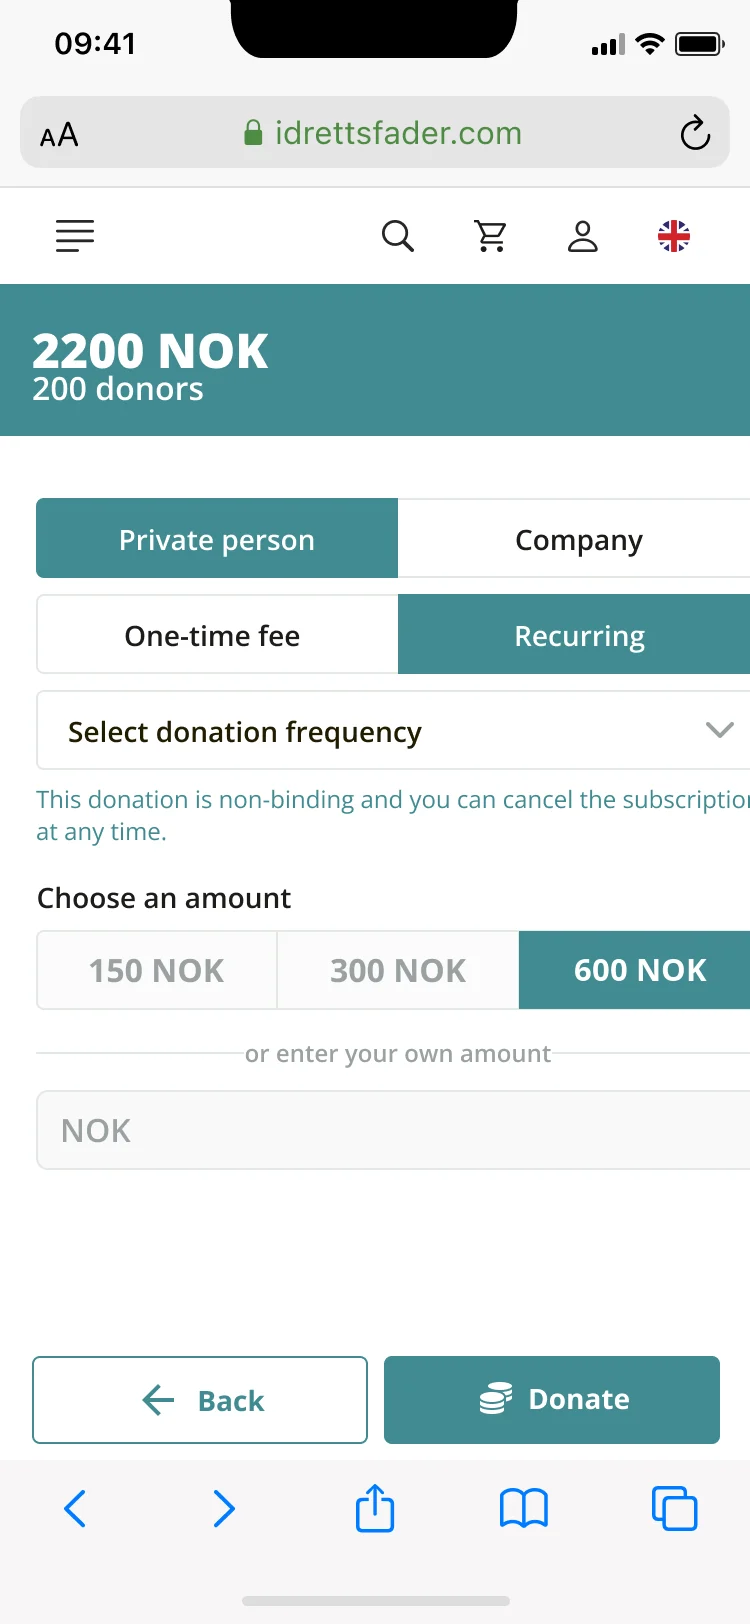
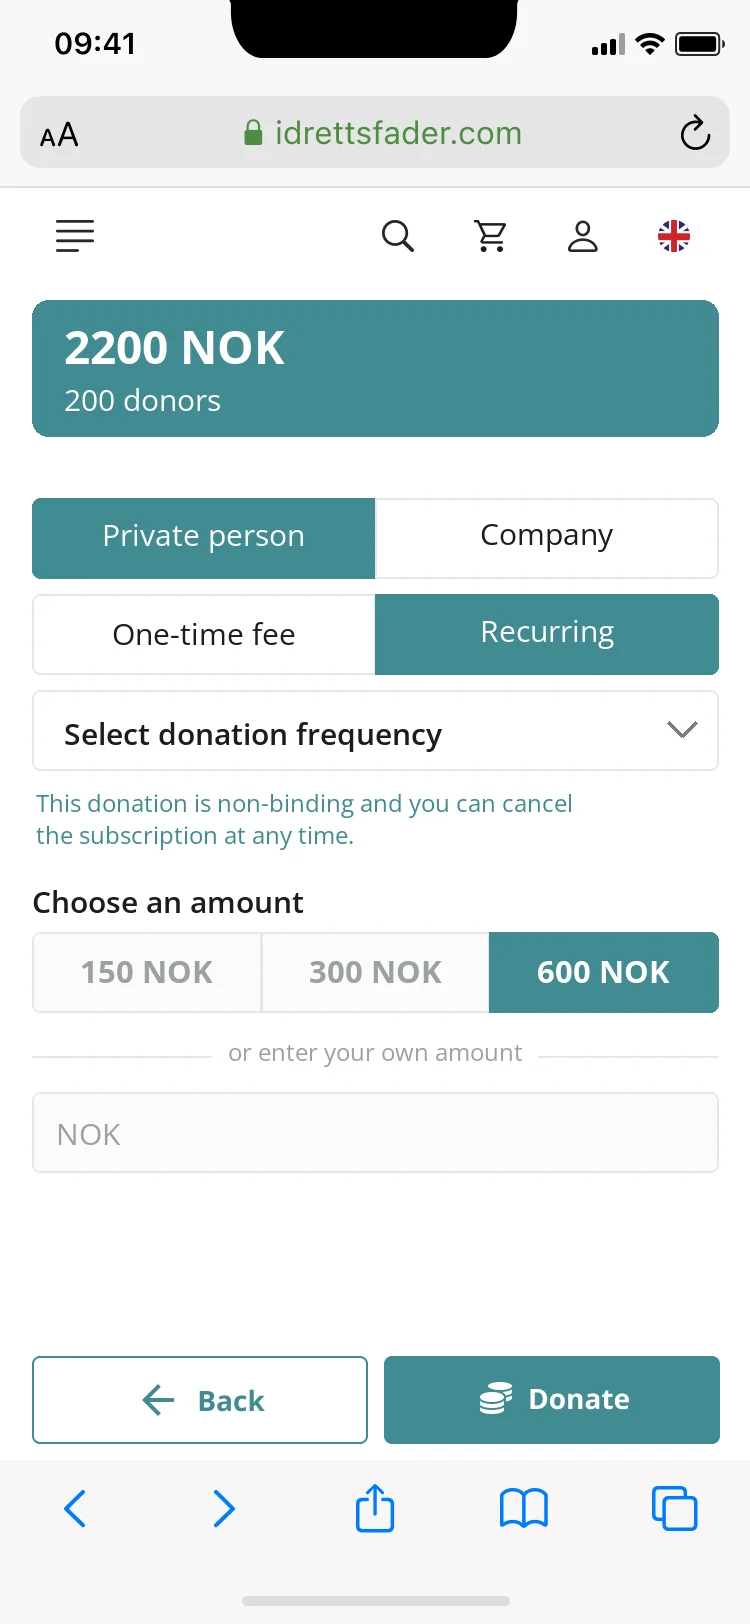
Sport Guardian: mobile donation form redrawn with 16 pt margins, phone panel no longer crops the phone, mosaic swaps the clubs tile for two mobile payment screens

diff --git a/SportGuardian.html b/SportGuardian.html
@@ -104,7 +104,8 @@ h1{font-size:clamp(34px,5.2vw,76px);line-height:1.03;letter-spacing:-.045em;max-
 .gal{padding-bottom:clamp(72px,10vw,140px)}
 .gal .g{margin-top:clamp(32px,4vw,56px)}
 .first{padding-bottom:clamp(56px,8vw,112px)}
-.c1-4.pfw .panel{height:100%}
+.pfw .panel{aspect-ratio:auto;height:auto}
+.pfw .phone{width:min(100%,300px)}
 /* the hoodie, full width of the grid, between the product and the brand */
 .divider{padding-bottom:clamp(72px,10vw,140px)}
 .divider .ph{aspect-ratio:16/8}
@@ -167,7 +168,7 @@ h1{font-size:clamp(34px,5.2vw,76px);line-height:1.03;letter-spacing:-.045em;max-
 @keyframes slide{to{transform:translateX(-50%)}}
 .tile{height:clamp(130px,17vw,250px);border-radius:6px;overflow:hidden;background:#fff;flex:none}
 .tile img{height:100%;width:100%;object-fit:cover;object-position:top}
-.tile.w{aspect-ratio:16/10}.tile.p{aspect-ratio:2/3}.tile.s{aspect-ratio:4/5}.tile.q{aspect-ratio:1}
+.tile.w{aspect-ratio:16/10}.tile.mb{aspect-ratio:375/812}.tile.p{aspect-ratio:2/3}.tile.s{aspect-ratio:4/5}.tile.q{aspect-ratio:1}
 .tile.k{background:var(--deep);display:flex;align-items:center;justify-content:center}
 .tile.k img{width:78%;height:auto;object-fit:contain}
 .tile.pl{background:var(--well);display:flex;align-items:center;justify-content:center}
@@ -222,7 +223,7 @@ footer .wrap{display:flex;justify-content:space-between;gap:16px;flex-wrap:wrap}
     <div class="ticker" aria-hidden="true"><span>Sport Guardian · Product and brand ·</span><span>Sport Guardian · Product and brand ·</span></div>
     <button class="pause" type="button" aria-pressed="false" data-for="mosaic"><svg class="pa" aria-hidden="true"><use href="#i-pause"/></svg><svg class="pl" aria-hidden="true"><use href="#i-play"/></svg><span>Pause<span class="vh"> the moving title and mosaic</span></span></button>
     <div class="rows" role="img" aria-label="A moving mosaic of Sport Guardian screens and brand pieces: the campaign page, the shop, the club's campaigns, crowdfunding, the admin panel and statistics, the payment cards, the image picker, with the hoodie, cap, skateboards, bottle and poster.">
-      <div class="track" style="--s:80s" data-tiles="screen-campaign:w|hoodie-768:w|screen-shop:w|poster-640:p|screen-admin-business:w|cap-768:w|screen-image-picker:w"></div>
+      <div class="track" style="--s:80s" data-tiles="screen-campaign:w|hoodie-768:w|screen-shop:w|poster-640:p|m-step-3:mb|m-step-4:mb|cap-768:w|screen-image-picker:w"></div>
       <div class="track rev" style="--s:110s" data-tiles="decks-768:w|screen-club-campaigns:w|bottle-640:p|screen-statistik:w|card-congrats:pl|sport-guardian-mark-800:w|screen-congrats-instagram:w|screen-crowdfunding:w|el-donors:pl|screen-admin-campaigns:w|card-payment-method:pl"></div>
     </div>
   </section></div>
@@ -333,7 +334,7 @@ footer .wrap{display:flex;justify-content:space-between;gap:16px;flex-wrap:wrap}
   if(!vp||matchMedia('(prefers-reduced-motion:reduce)').matches)return;
   var st=vp.querySelectorAll('.st'),body=vp.querySelector('.body'),ptr=vp.querySelector('.ptr'),box=vp.closest('.pfw');
   var steps=[[900,'scroll',-12],[2600,'scroll',-26],[3000,'scroll',0],[2400,'go',73.6,86.2],[1000,'tap'],[260,'show',0],
-             [1300,'go',85.3,59.7],[1000,'tap'],[220,'show',1],[900,'go',73.6,86.2],[1000,'tap'],[260,'show',2],
+             [1300,'go',80.5,59.9],[1000,'tap'],[220,'show',1],[900,'go',73.6,86.2],[1000,'tap'],[260,'show',2],
              [1600,'go',50,77.5],[1000,'tap'],[260,'show',3],[1500,'go',62,30],[1100,'go',50,77.5],[1000,'tap'],[260,'show',4],[3400,'reset']];
   var i=0,timer=0,paused=false,inView=false;
   function show(n){st.forEach(function(im,k){im.classList.toggle('on',k===n)})}

diff --git a/tools/sport-guardian/mobile_frames.py b/tools/sport-guardian/mobile_frames.py
@@ -21,12 +21,44 @@ page = Image.open(os.path.join(F, 'mobile-82411.png')).convert('RGB')
 form = Image.open(os.path.join(F, 'mobile-82469.png')).convert('RGB')
 # the bottom bar (Our donors, Donate) and the browser toolbar stay fixed over the scrolling page
 save(page.crop((0, 1334, 750, 1624)), 'm-bar')
-# the donation form, Recurring already chosen in her frame; then 600 NOK chosen
-save(form, 'm-form-1')
-f2 = form.copy(); d = ImageDraw.Draw(f2)
-d.rectangle((519, 931, 750, 1008), fill=TEAL)
-b = d.textbbox((0, 0), '600 NOK', font=BOLD); d.text((640-(b[2]-b[0])/2-b[0], 970-(b[3]-b[1])/2-b[1]), '600 NOK', font=BOLD, fill=(255, 255, 255))
-save(f2, 'm-form-2')
+# the donation form, redrawn with 16 pt side margins (2026-10-13, her request): in her frame 3:82469 the content
+# is 362 pt wide from x 18, so it runs past the right edge, and Figma clips every export of it. Same layout, type
+# (Open Sans), sizes and colours as her frame, drawn 343 pt wide from x 16 (686 px at 2x from x 32).
+FT = lambda w, n: ImageFont.truetype(os.path.join(HERE, 'fonts', f'OpenSans-{w}.ttf'), n)
+INK, LINE, MUTE, FIELD = (28, 28, 26), (227, 232, 229), (154, 161, 162), (251, 252, 251)
+def ctext(d, box, t, f, fill):
+    b = d.textbbox((0, 0), t, font=f); d.text(((box[0]+box[2]-(b[2]-b[0]))/2-b[0], (box[1]+box[3]-(b[3]-b[1]))/2-b[1]), t, font=f, fill=fill)
+def pair(d, y, left, right, sel):
+    for k, t in enumerate((left, right)):
+        x0 = 32+k*343; box = (x0, y, x0+343, y+80); on = k == sel
+        d.rounded_rectangle(box, 8, fill=TEAL if on else (255, 255, 255), outline=TEAL if on else LINE, width=2, corners=(k == 0, k == 1, k == 1, k == 0))
+        ctext(d, box, t, FT('Regular', 30), (255, 255, 255) if on else INK)
+def form_frame(sel600):
+    im = form.copy(); d = ImageDraw.Draw(im); d.rectangle((0, 284, 750, 1338), fill=(255, 255, 255))
+    d.rounded_rectangle((32, 300, 718, 436), 16, fill=TEAL)
+    d.text((64, 314), '2200 NOK', font=FT('Bold', 46), fill=(255, 255, 255)); d.text((64, 378), '200 donors', font=FT('Regular', 30), fill=(255, 255, 255))
+    pair(d, 498, 'Private person', 'Company', 0)
+    pair(d, 594, 'One-time fee', 'Recurring', 1)
+    d.rounded_rectangle((32, 690, 718, 770), 8, fill=(255, 255, 255), outline=LINE, width=2)
+    d.text((64, 712), 'Select donation frequency', font=FT('SemiBold', 30), fill=INK)
+    d.line([(668, 722), (682, 736), (696, 722)], fill=(120, 126, 128), width=3)
+    f = FT('Regular', 24)
+    d.text((36, 786), 'This donation is non-binding and you can cancel', font=f, fill=TEAL)
+    d.text((36, 818), 'the subscription at any time.', font=f, fill=TEAL)
+    d.text((32, 880), 'Choose an amount', font=FT('SemiBold', 30), fill=INK)
+    w = 686/3
+    for k, t in enumerate(('150 NOK', '300 NOK', '600 NOK')):
+        box = (round(32+k*w), 932, round(32+(k+1)*w), 1012); on = sel600 and k == 2
+        d.rounded_rectangle(box, 8, fill=TEAL if on else FIELD, outline=TEAL if on else LINE, width=2, corners=(k == 0, k == 2, k == 2, k == 0))
+        ctext(d, box, t, FT('Bold', 31), (255, 255, 255) if on else MUTE)
+    b = d.textbbox((0, 0), 'or enter your own amount', font=f); tw = b[2]-b[0]
+    d.line([(32, 1056), (375-tw/2-16, 1056)], fill=LINE, width=2); d.line([(375+tw/2+16, 1056), (718, 1056)], fill=LINE, width=2)
+    ctext(d, (32, 1040, 718, 1072), 'or enter your own amount', f, MUTE)
+    d.rounded_rectangle((32, 1092, 718, 1172), 8, fill=FIELD, outline=LINE, width=2)
+    d.text((56, 1112), 'NOK', font=FT('Regular', 30), fill=MUTE)
+    return im
+save(form_frame(False), 'm-form-1')
+save(form_frame(True), 'm-form-2')
 # the payment steps: status + address bar on top, the card at full width, the toolbar at the bottom
 top = page.crop((0, 0, 750, 186)); tool = page.crop((0, 1458, 750, 1624))
 for n, card in [(3, 'card-payment-method'), (4, 'card-credit-card'), (5, 'card-congrats')]:

diff --git a/sportguardian.md b/sportguardian.md
@@ -33,10 +33,10 @@ No em dashes in visible text (her rule).
 ## Blocks
 Order (2026-10-13, her request, last change): header → the moving mosaic → About / Problem / Solution → Product → the hoodie photo as a divider → Brand. Every block stays inside the page's grid, like every other block on her site.
 1. **Header** — back link, eyebrow, headline, meta row; the page starts with it, like every other project page.
-2. **Mosaic** (first under the header, her request) — after GEN: on a teal ground, the title SPORT GUARDIAN · PRODUCT AND BRAND in very large capitals as a running line, then **two** rows of straight tiles sliding sideways, the second the other way (her request: one row less, its tiles moved into the second row; the whole SG mark replaces the cropped lockup tile). One Pause button stops the title and the rows; with reduced motion they stand still.
+2. **Mosaic** (first under the header, her request) — after GEN: on a teal ground, the title SPORT GUARDIAN · PRODUCT AND BRAND in very large capitals as a running line, then **two** rows of straight tiles sliding sideways, the second the other way (her request: one row less, its tiles moved into the second row; the whole SG mark replaces the cropped lockup tile; the clubs overview tile is replaced by two mobile payment screens, Payment options and Payment by card). One Pause button stops the title and the rows; with reduced motion they stand still.
 3. **About / Problem / Solution** — label left, text right, as on the School page.
 4. **Product** (from the donor to the club's admin), on 12 columns:
-   - the phone (1–4) playing the donor flow in a loop: the campaign page scrolls down and back under its fixed status bar, address bar and menu bar, with her fixed bottom bar (Our donors, Donate) and the browser toolbar always on screen; a tap on Donate; the donation form (Private person, Recurring); a tap on 600 NOK; a tap on Donate; Payment options; a tap on Credit card; Payment by card; a tap on Pay; Thank you. A small round pointer moves between the taps and rings on each one. A Pause button under the phone (WCAG 2.2.2); with reduced motion the phone shows the page, still. Frames: `m-bar.webp`, `m-form-1.webp`, `m-form-2.webp`, `m-step-3.webp` … `m-step-5.webp` (750 × 1624), built with [`tools/sport-guardian/mobile_frames.py`](tools/sport-guardian/mobile_frames.py) from her mobile frames 3:82411 (the page with her bottom bar) and 3:82469 (the donation form, its right column cut off as in her frame), and the payment cards shown at full phone width (there are no mobile frames for those steps); the page itself is `screen-mobile-head.webp` + `screen-mobile-body.webp`. The 600 NOK selected state is redrawn in Open Sans. (The earlier tablet version, `tablet_frames.py`, is retired; its images are deleted.)
+   - the phone (1–4) playing the donor flow in a loop: the campaign page scrolls down and back under its fixed status bar, address bar and menu bar, with her fixed bottom bar (Our donors, Donate) and the browser toolbar always on screen; a tap on Donate; the donation form (Private person, Recurring); a tap on 600 NOK; a tap on Donate; Payment options; a tap on Credit card; Payment by card; a tap on Pay; Thank you. A small round pointer moves between the taps and rings on each one. A Pause button under the phone (WCAG 2.2.2); with reduced motion the phone shows the page, still. Frames: `m-bar.webp`, `m-form-1.webp`, `m-form-2.webp`, `m-step-3.webp` … `m-step-5.webp` (750 × 1624), built with [`tools/sport-guardian/mobile_frames.py`](tools/sport-guardian/mobile_frames.py) from her mobile frames 3:82411 (the page with her bottom bar) and 3:82469 (the donation form, redrawn in Open Sans with 16 pt side margins on both sides, her request: in her frame the content runs past the right edge; the total "2200 NOK, 200 donors" becomes a teal card with the same margins), and the payment cards shown at full phone width (there are no mobile frames for those steps); the page itself is `screen-mobile-head.webp` + `screen-mobile-body.webp`. The phone panel grows with the phone, so the phone is never cut on narrow screens. (The earlier tablet version, `tablet_frames.py`, is retired; its images are deleted.)
    - the desktop campaign page in a browser frame, scrolling slowly under its fixed header, on a pale panel (5–12);
    - caption "Three steps after Donate" (1–4); the three payment cards staggered on a pale panel (5–12);
    - the donor list on a teal panel (1–4); the campaign builder's "Accept donations from / Select donation frequency" block on a pale panel (5–12): single elements, as she asked, since the full builder page is not its best side;
